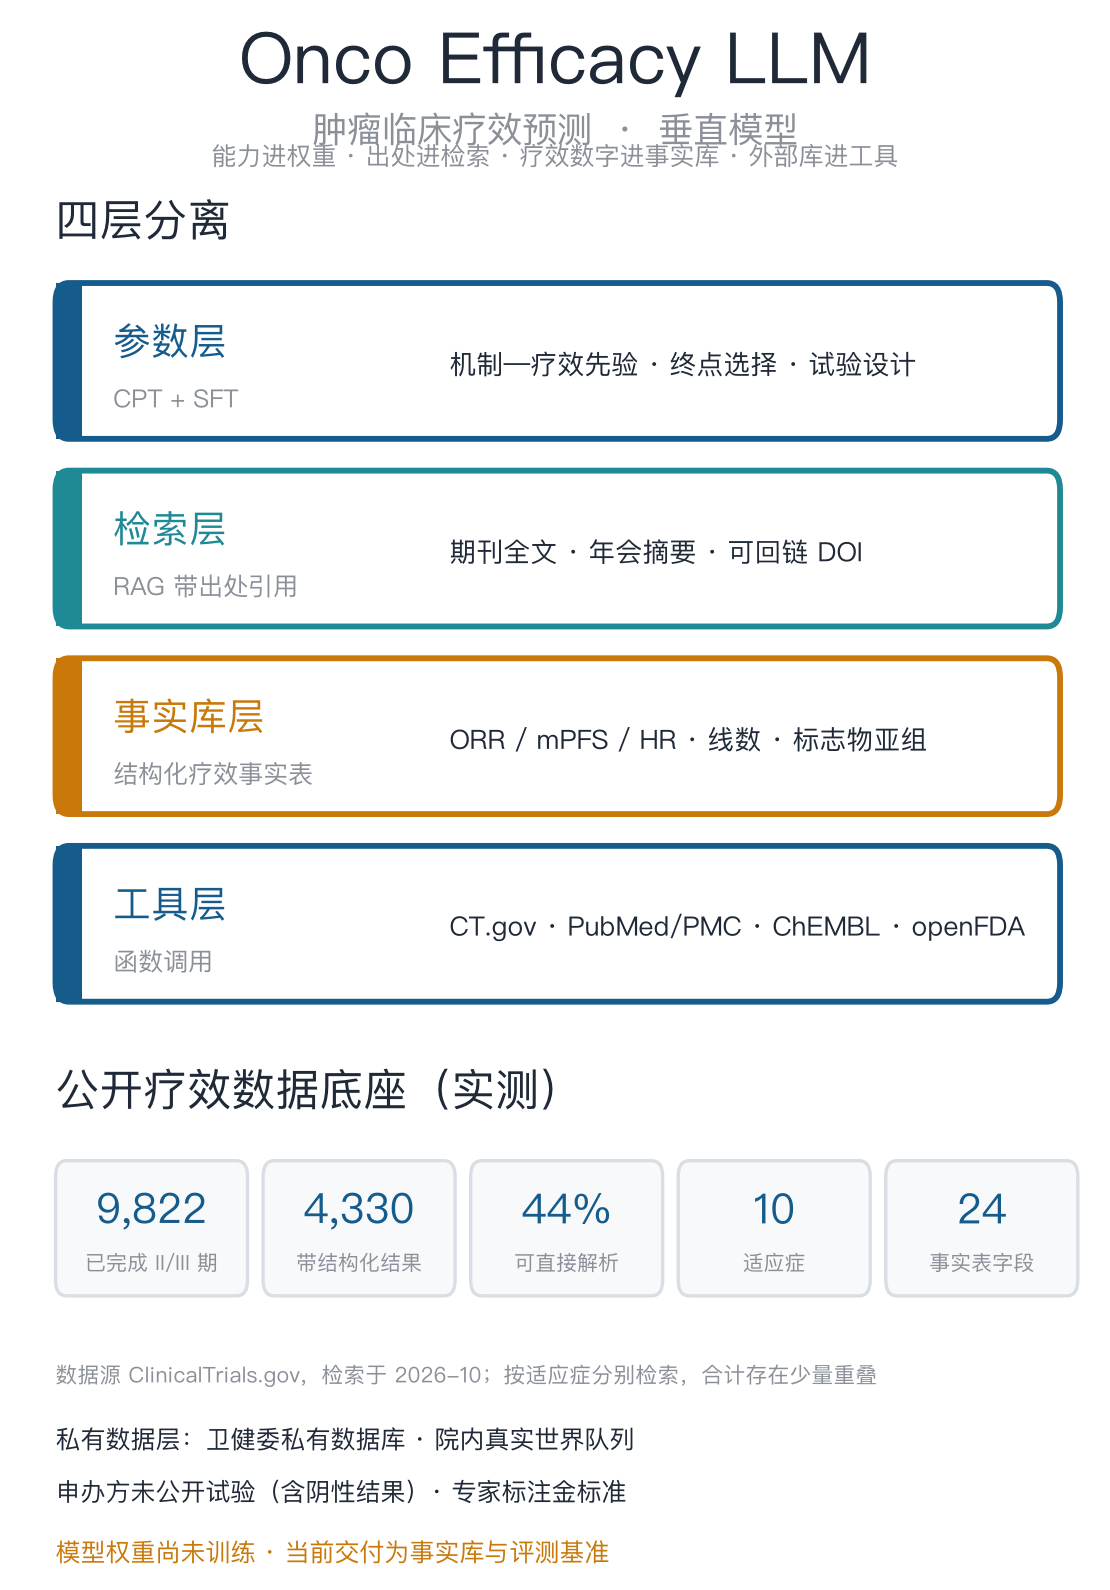
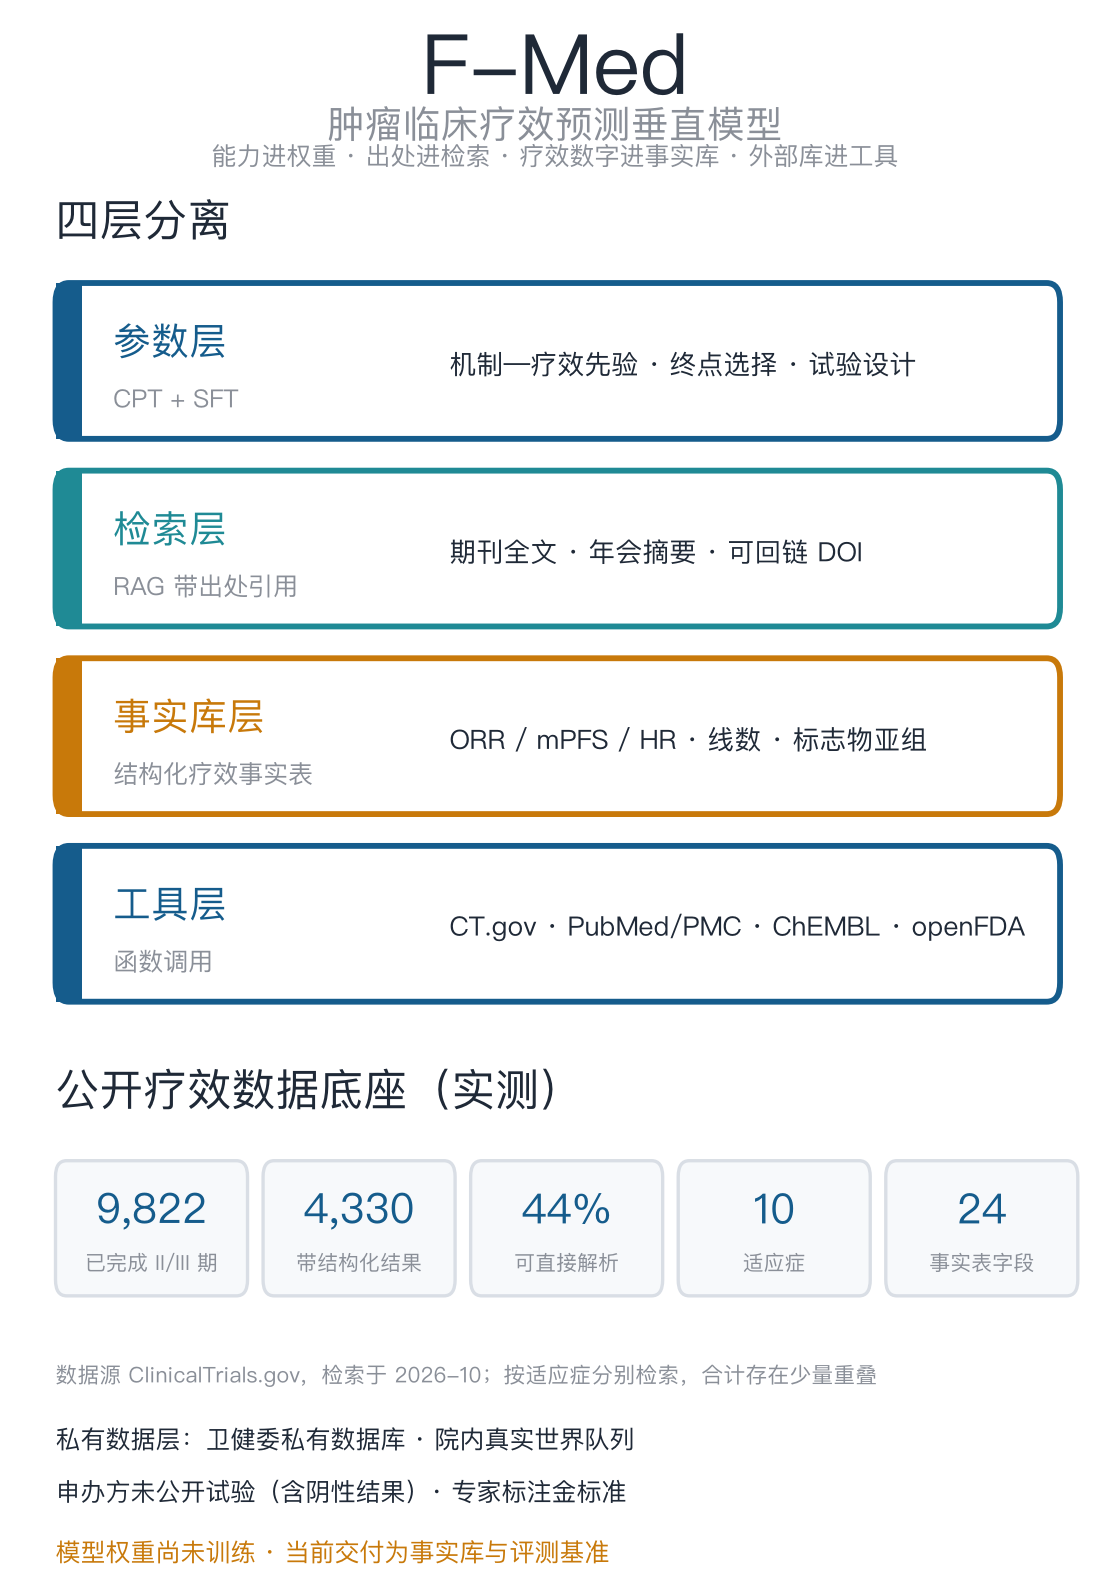
Introduce F-Med naming and the MLA / MoE / MTP / GRPO rationale mapped to clinical-data properties

Changed region(s): [[0.2144, 0.0, 0.7964, 0.0925]]

diff --git a/onco-efficacy.html b/onco-efficacy.html
@@ -3,7 +3,7 @@
 <head>
 <meta charset="utf-8">
 <meta name="viewport" content="width=device-width, initial-scale=1">
-<title>Onco Efficacy LLM — 肿瘤临床疗效预测垂直模型 | 复泽智药</title>
+<title>F-Med — 肿瘤临床疗效预测垂直模型 | 复泽智药</title>
 <meta name="description" content="从试验注册库、期刊文献、学会年会摘要与卫健委私有数据库构建结构化疗效事实库，并在其上做可溯源的试验级疗效预估。">
 <style>
   :root{
@@ -32,6 +32,8 @@
   .callout{border-left:3px solid var(--orange);background:#fdf8f1;
     padding:14px 18px;margin:0 0 24px;font-size:15px}
   .callout strong{color:var(--orange)}
+  .pitch{font-size:17px;line-height:1.8;border-left:3px solid var(--blue);padding:4px 0 4px 20px;margin:0 0 22px}
+  .sub2{font-weight:400;font-size:12px;color:var(--faint)}
   table{border-collapse:collapse;width:100%;margin:0 0 20px;font-size:14.5px}
   caption{caption-side:bottom;text-align:left;color:var(--faint);font-size:12.5px;padding-top:10px}
   th,td{text-align:left;vertical-align:top;padding:11px 14px;border-bottom:1px solid var(--line)}
@@ -80,8 +82,9 @@
 <header>
   <p style="margin:0 0 14px;font-size:14px"><a href="index.html">← 复泽智药</a></p>
   <span class="badge">内测阶段 · 事实库与评测基准已交付</span>
-  <h1>Onco Efficacy LLM</h1>
+  <h1>F-Med</h1>
   <p class="sub">肿瘤临床疗效预测垂直模型 —— 面向临床开发、BD 与立项、转化医学、投资尽调</p>
+  <p style="font-size:15px;color:var(--grey);margin:14px 0 0">F-Med 是把 DeepSeek 已验证的 <strong>MLA</strong>、<strong>细粒度 + 共享专家 MoE</strong>、<strong>MTP</strong>、<strong>GRPO</strong>，按临床数据的性质重新排布的垂直模型。</p>
 </header>
 
 <h2>定位</h2>
@@ -108,6 +111,22 @@
         <td>边界写在明面：公开数据仅汇总级，定位为试验级疗效预估</td></tr>
   </tbody>
 </table>
+
+
+<h2>F-Med 特点</h2>
+<p class="lede">不是从零造轮子，而是把 DeepSeek 已验证的组件按临床数据的性质重新排布。</p>
+<table>
+  <caption>四个组件各自对应临床数据的一项具体性质；左为组件，右为「为什么临床数据需要它」</caption>
+  <thead><tr><th style="width:17%">组件</th><th style="width:38%">做了什么</th><th>临床数据为什么需要它</th></tr></thead>
+  <tbody>
+    <tr><td><strong>MLA<br><span class='sub2'>潜向量注意力</span></strong></td><td>把 KV cache 压成低秩潜向量，长上下文的显存瓶颈被解开</td><td>临床试验方案书、CSR、整册年会摘要都极长——要能一次读完，而不是分段喂</td></tr>
+    <tr><td><strong>MoE<br><span class='sub2'>细粒度 + 共享专家</span></strong></td><td>细粒度专家按瘤种、终点类型、法规辖区切分；共享专家承载跨瘤种通用的临床统计与话术</td><td>临床语域天然分区，但基础临床统计是所有分区共用的，不该让每个专家重学一遍</td></tr>
+    <tr><td><strong>MTP<br><span class='sub2'>多 token 预测</span></strong></td><td>多 token 训练目标，并提升结构化抽取吞吐</td><td>疗效字段强耦合且成对出现：ORR 的分子分母、HR 与其置信区间，逐 token 预测容易拆散</td></tr>
+    <tr><td><strong>GRPO<br><span class='sub2'>组相对策略优化</span></strong></td><td>按试验分组算组内相对优势，无需人工偏好标注即可做强化学习</td><td>疗效预测的奖励客观可验证（ORR 误差、HR 方向对错），且「同一试验多个臂」天然成组</td></tr>
+  </tbody>
+</table>
+
+<hr class="hr">
 
 <h2>架构：四层分离</h2>
 <p class="lede">能力进权重，出处进检索，疗效数字进事实库，外部数据库进工具调用。</p>

diff --git a/index.html b/index.html
@@ -47,7 +47,8 @@
   .card .kicker{font-size:12px;letter-spacing:.05em;text-transform:uppercase;
     font-family:var(--mono);color:var(--faint);margin:0 0 7px}
   .card h3{margin:0 0 4px;font-size:19px}
-  .card .zh{font-size:14px;color:var(--grey);margin:0 0 14px}
+  .card .zh{font-size:14px;color:var(--grey);margin:0 0 8px}
+  .sub2{font-weight:400;font-size:12px;color:var(--faint)}
   .card ul{margin:0 0 16px;padding-left:19px;font-size:14.5px}
   .card li{margin-bottom:7px}
   .card .foot{margin-top:auto;font-size:13.5px;color:var(--faint);
@@ -143,8 +144,9 @@
 
   <div class="card onco">
     <p class="kicker">Model 02</p>
-    <h3>Onco Efficacy LLM</h3>
+    <h3>F-Med</h3>
     <p class="zh">肿瘤临床疗效预测垂直模型</p>
+    <p style="font-size:13.5px;color:var(--grey);margin:0 0 13px">F-Med 是把 DeepSeek 已验证的 <strong>MLA</strong>、<strong>细粒度 + 共享专家 MoE</strong>、<strong>MTP</strong>、<strong>GRPO</strong>，按临床数据的性质重新排布的垂直模型。</p>
     <ul>
       <li>面向 <strong>临床开发、BD 与立项、投资尽调</strong></li>
       <li>四层分离：在三层之上独立出<strong>结构化疗效事实库</strong>，ORR / mPFS / HR 全部可回链 NCT 与 DOI</li>
@@ -215,6 +217,23 @@
   <strong>数据合规前置。</strong>卫健委私有数据库与院内队列的使用，以数据使用协议、伦理审批与
   去标识化处理为前提；相关授权文件在尽调时单独提供，不在本页列示。
 </div>
+
+<hr class="hr">
+
+
+<h2>F-Med 特点</h2>
+<p class="lede">不是从零造轮子，而是把 DeepSeek 已验证的组件按临床数据的性质重新排布。</p>
+<p class="pitch">F-Med 是把 DeepSeek 已验证的 <strong>MLA</strong>、<strong>细粒度 + 共享专家 MoE</strong>、<strong>MTP</strong>、<strong>GRPO</strong>，按临床数据的性质重新排布的垂直模型。</p>
+<table>
+  <caption>四个组件各自对应临床数据的一项具体性质；左为组件，右为「为什么临床数据需要它」</caption>
+  <thead><tr><th style="width:17%">组件</th><th style="width:38%">做了什么</th><th>临床数据为什么需要它</th></tr></thead>
+  <tbody>
+    <tr><td><strong>MLA<br><span class='sub2'>潜向量注意力</span></strong></td><td>把 KV cache 压成低秩潜向量，长上下文的显存瓶颈被解开</td><td>临床试验方案书、CSR、整册年会摘要都极长——要能一次读完，而不是分段喂</td></tr>
+    <tr><td><strong>MoE<br><span class='sub2'>细粒度 + 共享专家</span></strong></td><td>细粒度专家按瘤种、终点类型、法规辖区切分；共享专家承载跨瘤种通用的临床统计与话术</td><td>临床语域天然分区，但基础临床统计是所有分区共用的，不该让每个专家重学一遍</td></tr>
+    <tr><td><strong>MTP<br><span class='sub2'>多 token 预测</span></strong></td><td>多 token 训练目标，并提升结构化抽取吞吐</td><td>疗效字段强耦合且成对出现：ORR 的分子分母、HR 与其置信区间，逐 token 预测容易拆散</td></tr>
+    <tr><td><strong>GRPO<br><span class='sub2'>组相对策略优化</span></strong></td><td>按试验分组算组内相对优势，无需人工偏好标注即可做强化学习</td><td>疗效预测的奖励客观可验证（ORR 误差、HR 方向对错），且「同一试验多个臂」天然成组</td></tr>
+  </tbody>
+</table>
 
 <hr class="hr">
 
